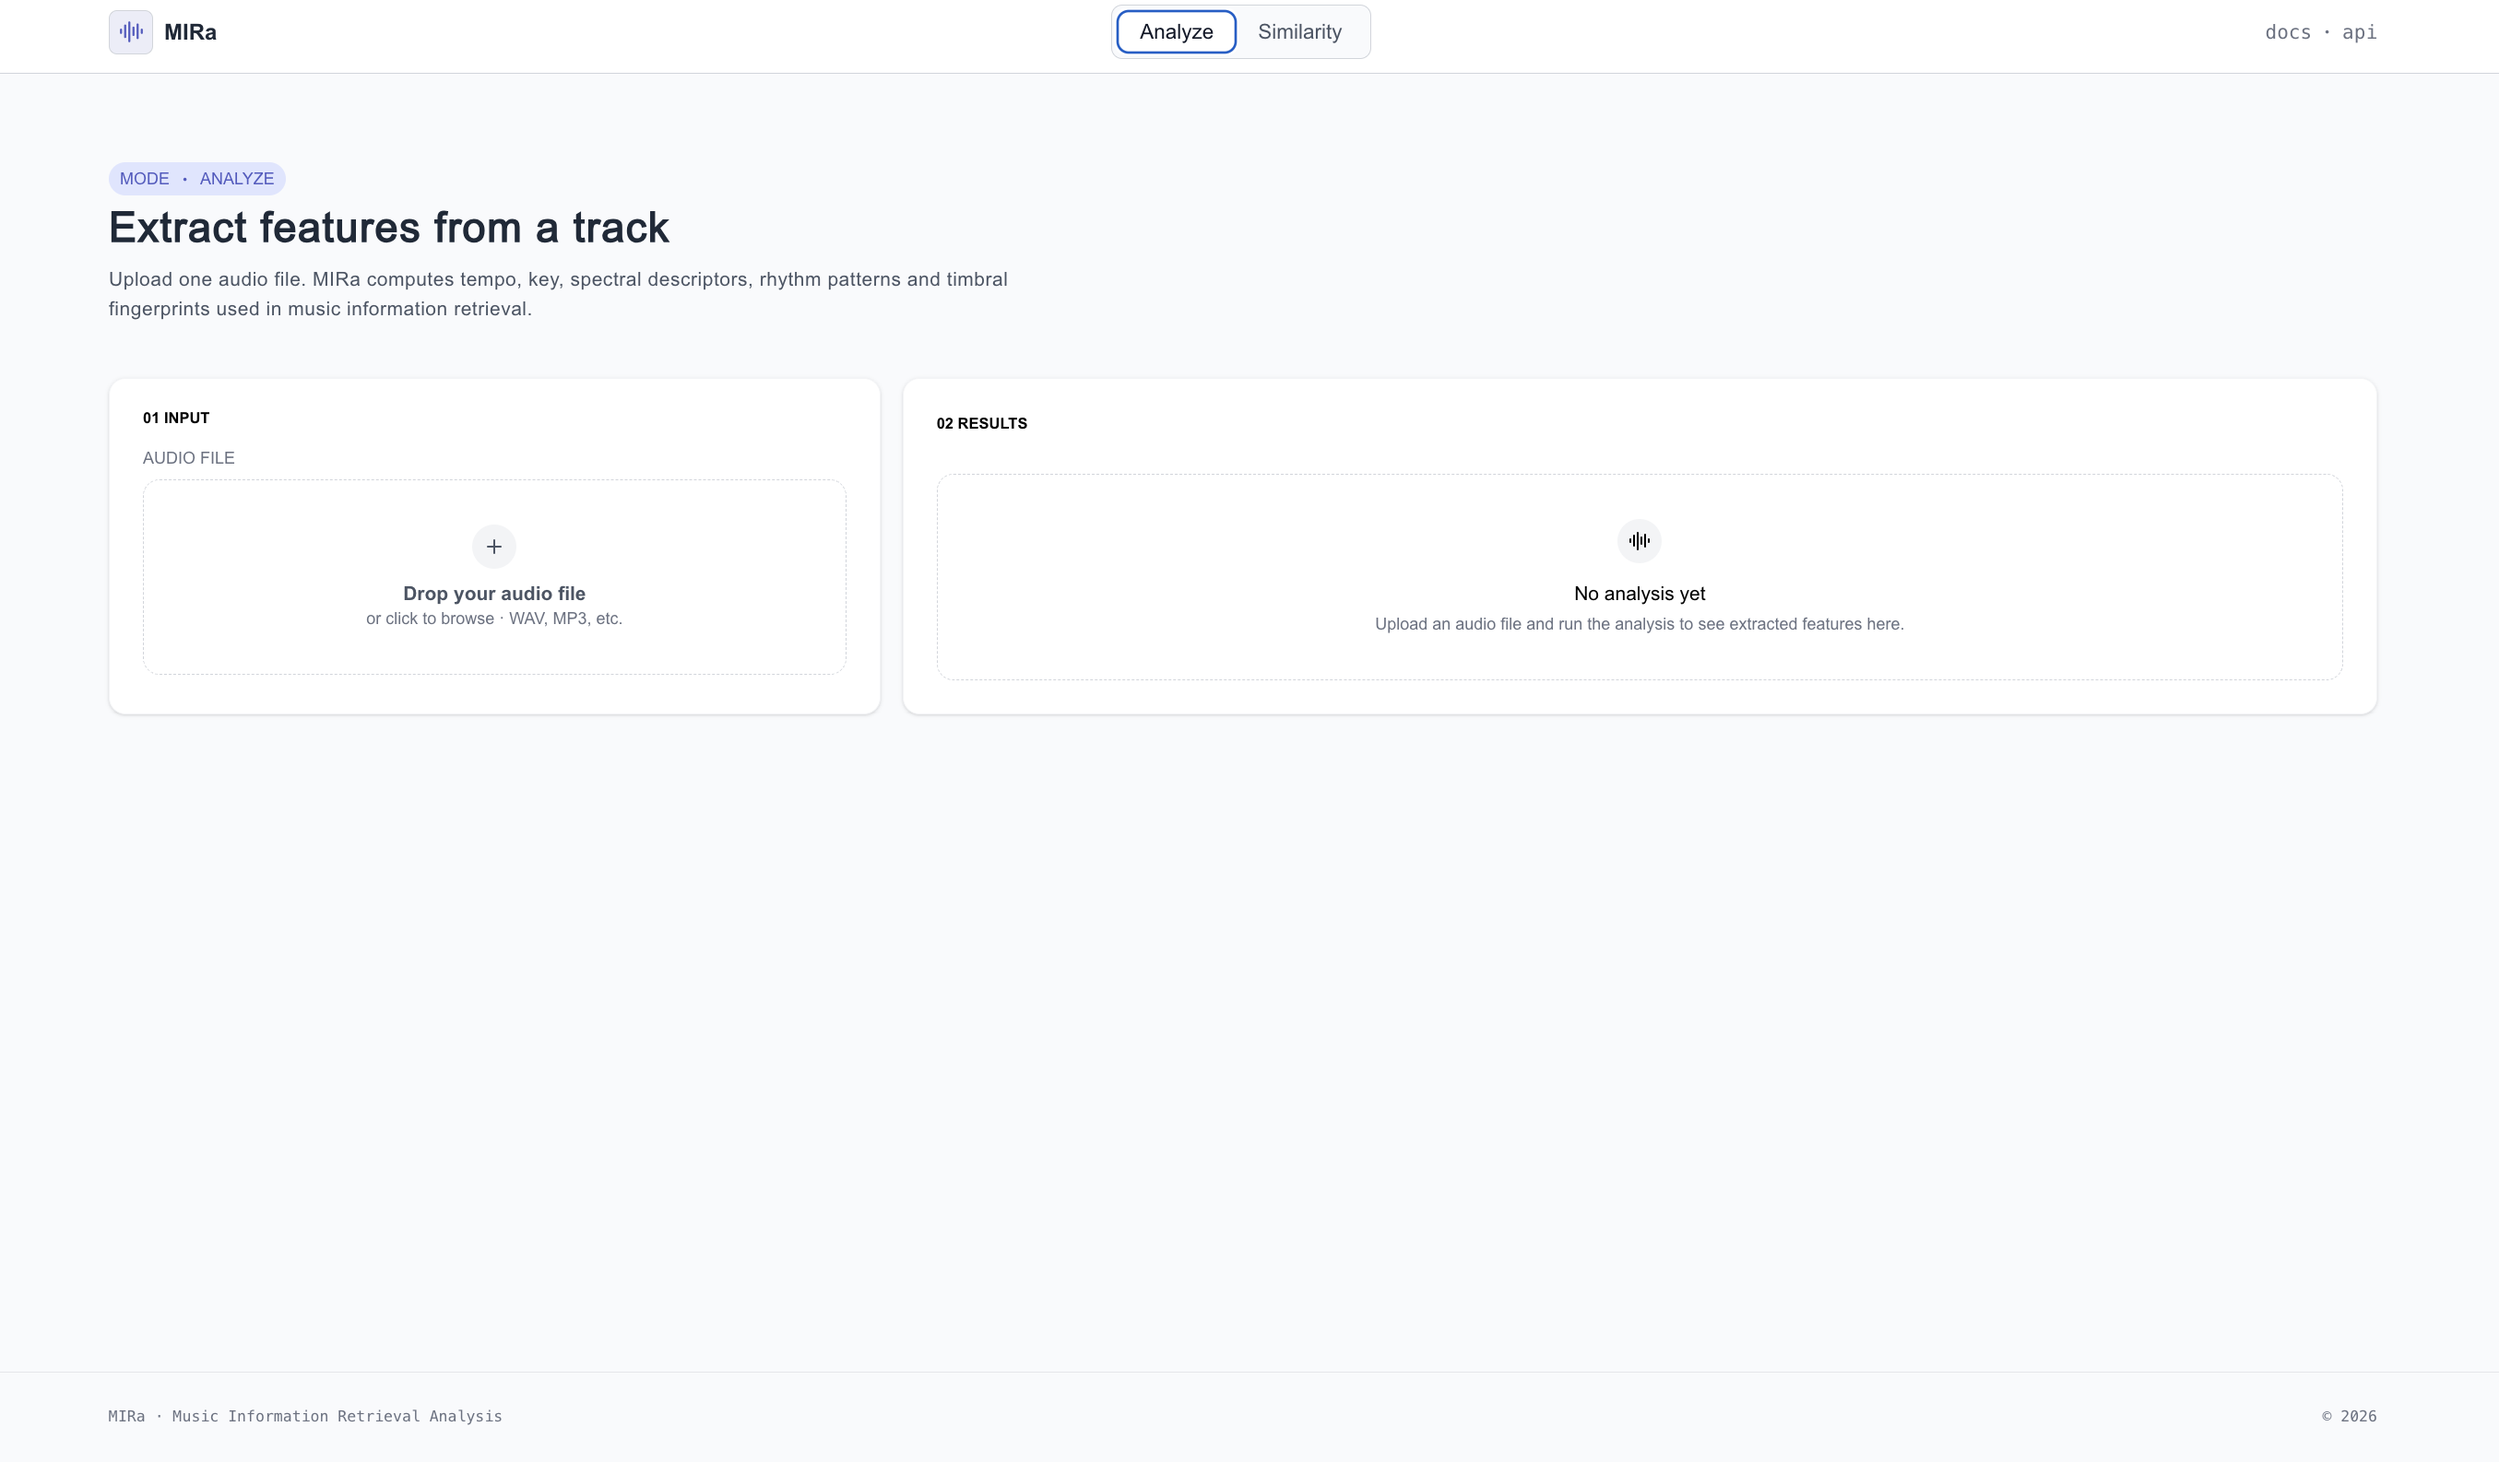
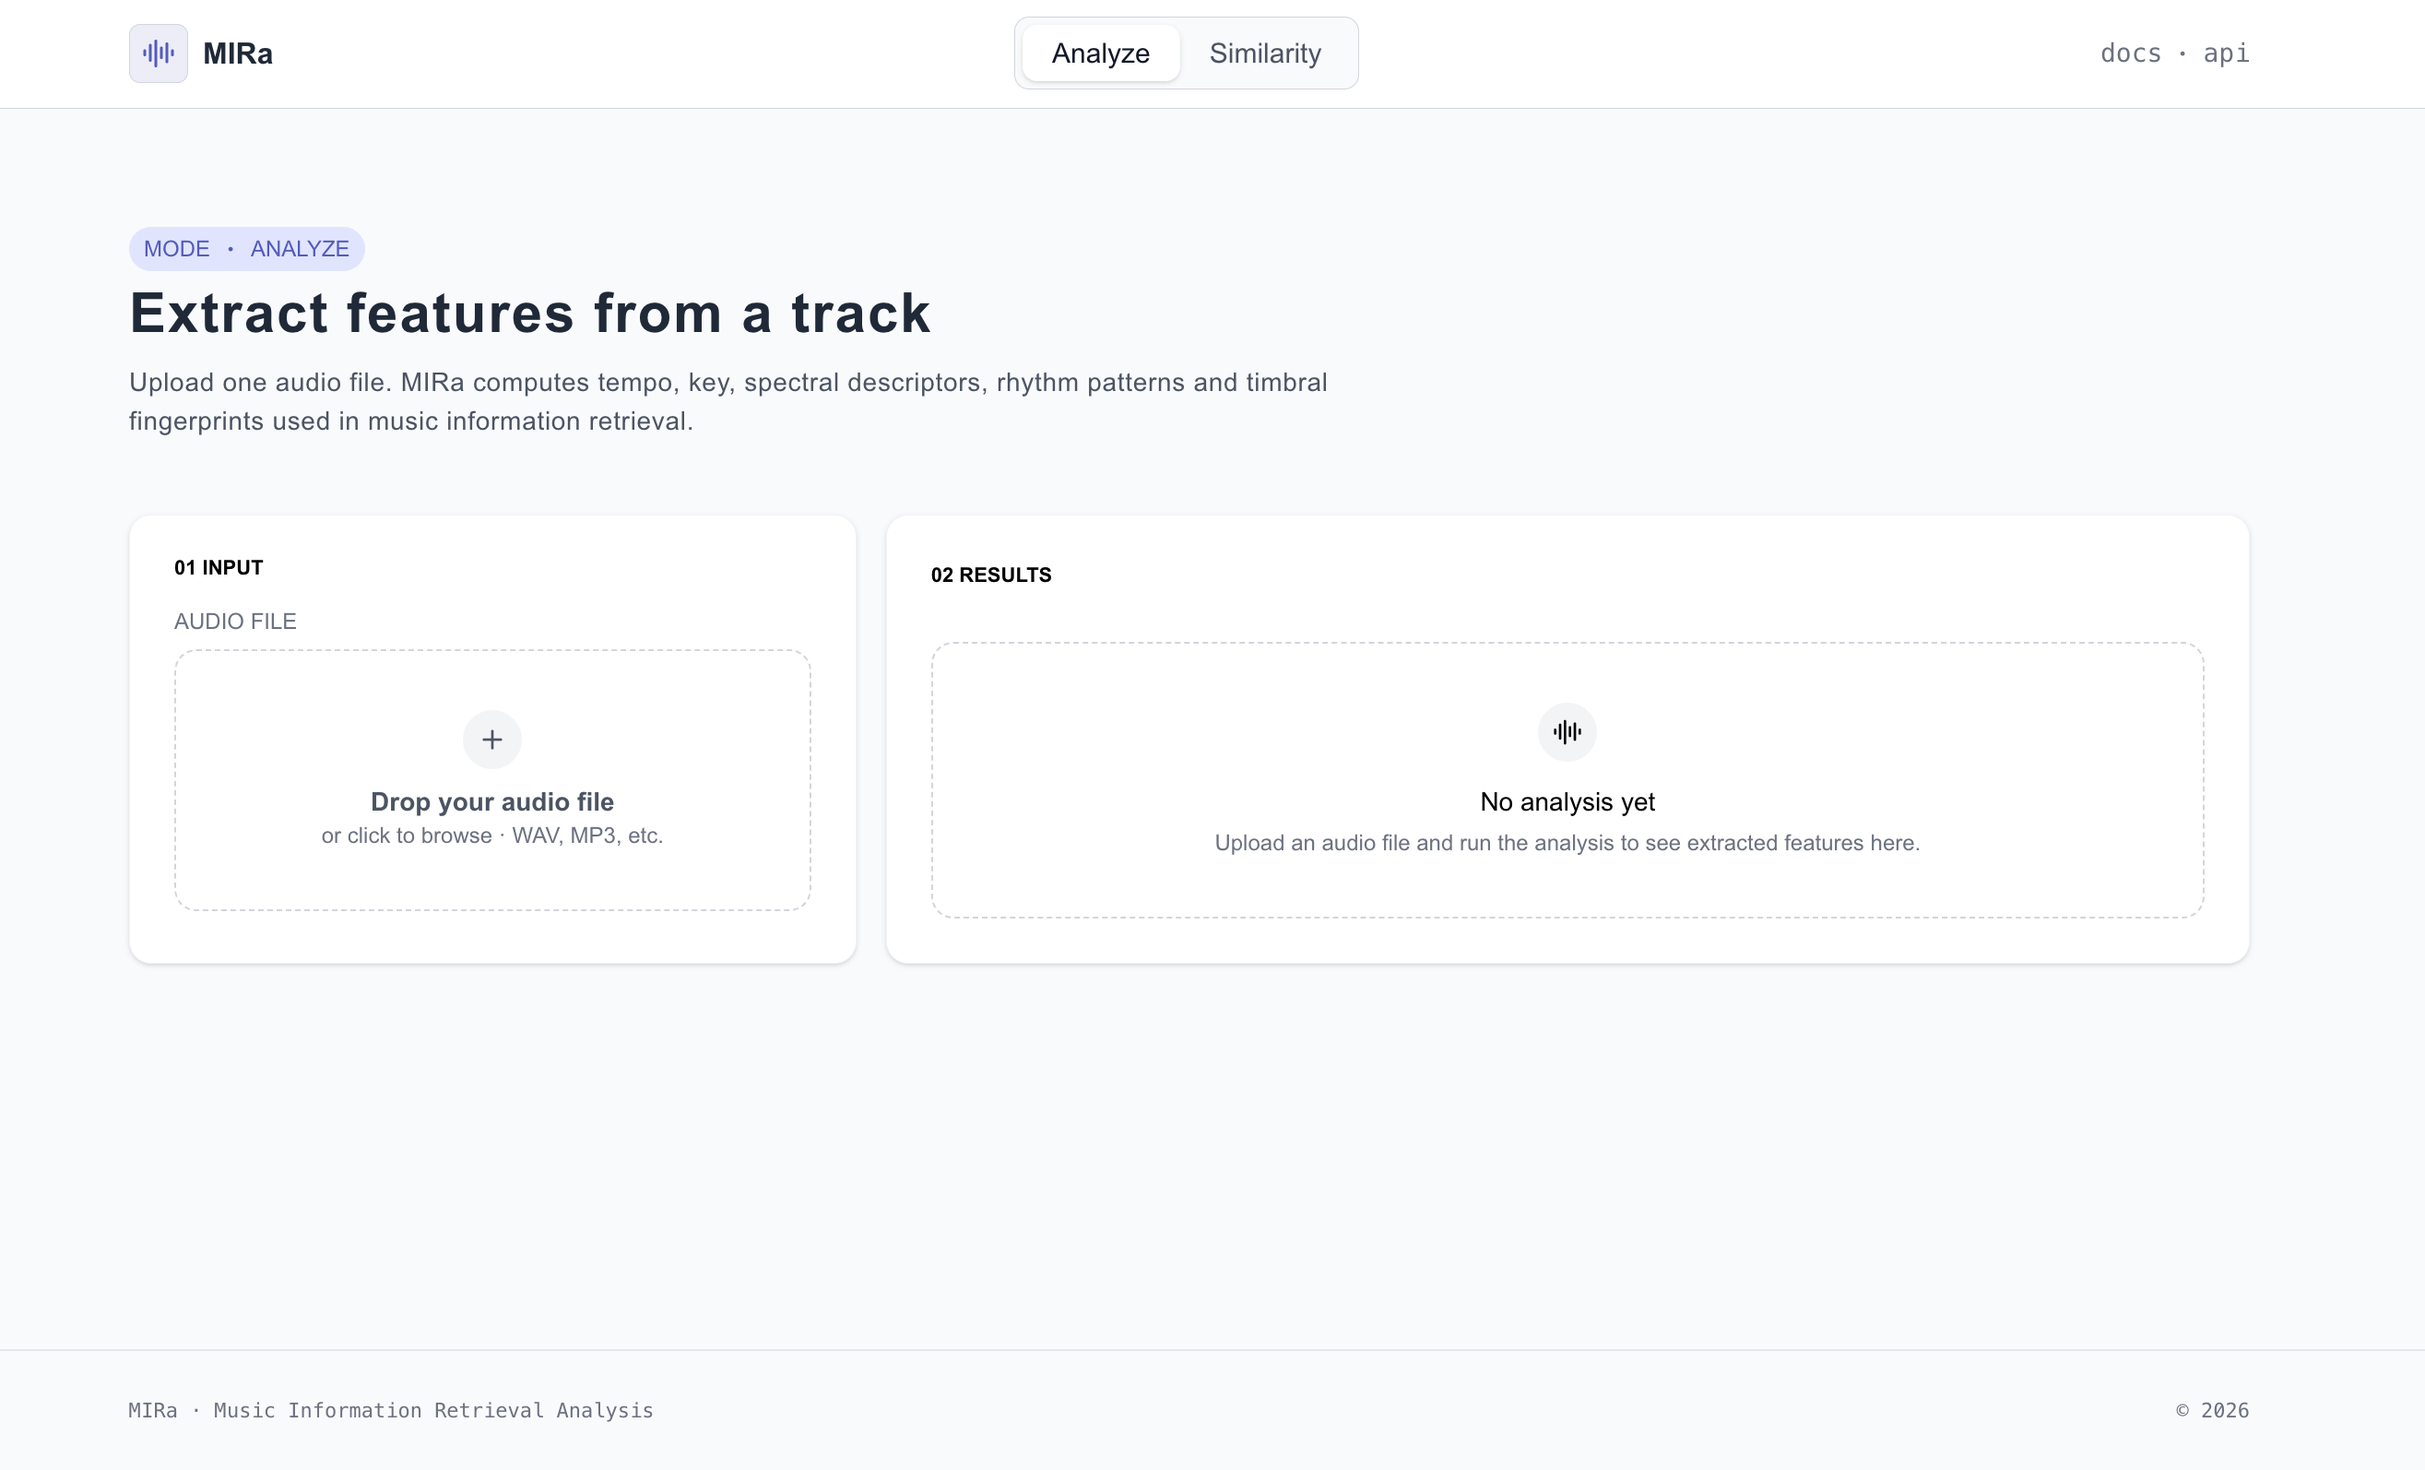
update README

diff --git a/README.md b/README.md
@@ -1,7 +1,8 @@
 # MIRa — Music Information Retrieval Analysis
 
-> A research-oriented prototype exploring how audio features and ML models can be combined into usable music analysis and similarity systems.
+> A research-oriented prototype for extracting, comparing, and spatializing audio — combining classical signal processing with transformer-based classification and binaural synthesis.
 
+<img src="./images/s5.png" width="49%" /> <img src="./images/s6.png" width="49%" />
 <img src="./images/s4.png" width="49%" /> <img src="./images/s1.png" width="49%" />
 <img src="./images/s3.png" width="49%" /> <img src="./images/s2.png" width="49%" />
 
@@ -9,42 +10,58 @@
 
 ---
 
-## TL;DR
-
-- Upload a music file → extract semantic audio features (tempo, key, genre, mood, spectral descriptors)
-- Compare two tracks → compute weighted cosine similarity across MFCC, chroma, spectral, and tempo vectors
-- Combines Librosa signal processing + Transformer-based classification
-- Deployed end-to-end: FastAPI on Hugging Face Spaces + Next.js on Vercel
-
----
-
-## Overview
-
-MIRa is a music analysis prototype built to explore how audio signal processing and machine learning models can be combined into a practical, usable interface. The system has two modes:
+## Modules
  
-**Analyze** — accepts a single audio file and returns a structured set of features covering tonal, rhythmic, timbral, and affective dimensions of the track.
+MIRa has three modes:
  
-**Compare** — accepts two audio files and computes a weighted similarity score across multiple feature dimensions, highlighting where tracks converge and differ at a per-feature level.
+**Analyze** — extract semantic audio features from a single track (tempo, key, genre, mood, instruments).
  
-The project is motivated by core MIR research tasks — automatic annotation, genre classification, mood inference, and music similarity — and serves as a foundation for further work in recommendation and retrieval.
+**Compare** — compute weighted similarity between two tracks across MFCC, chroma, spectral centroid, and tempo feature vectors.
+ 
+**Spatialize** — render a mono audio file binaurally based on a selected direction. Upload a file, pick an azimuth on an interactive compass, and hear the sound positioned around your head through headphones.
 
 ---
 
 ## Features
 
-### Analysis
+### Binaural Synthesis
+ 
+A spatial audio engine built from first principles and extended with measured HRTF data.
+ 
+**What's implemented:**
+ 
+- Audio decoding pipeline — WAV input, mono conversion, resampling to 44.1 kHz
+- Synthetic HRTF engine — Woodworth ITD formula, frequency-dependent ILD head shadow model, pinna spectral shaping via FFT notch filters
+- MIT KEMAR dataset integration 
+- FFT convolution engine using SciPy `fftconvolve`, stereo encoding to 16-bit WAV
+- FastAPI endpoint with dataset selection (synthetic vs KEMAR), validation, and error handling
+- Interactive compass UI — click or drag to position the source, live L/R gain meters, binaural bar visualizer, status-aware player
 
+**Limitations:**
+ 
+- Offline processing only — no real-time streaming
+- Generic HRTF (not individualised), so front/back and elevation cues are subtle for some listeners
+- WAV input only, MP3 not yet supported
+- Mobile UI not yet optimized
+---
+ 
+### Analysis Features
+ 
 | Feature | Method | Output |
 |---|---|---|
 | Tempo | Librosa beat tracking | BPM |
-| Musical Key | Chroma-based key estimation | Key name |
-| Loudness | RMS energy analysis | Normalized value |
+| Musical Key | Chroma-based key estimation | Key + confidence |
+| Loudness | RMS energy analysis | LUFS value |
 | Duration | Audio metadata | Seconds |
+| Perceptual Features | Energy, danceability, valence, acousticness | Normalized 0–1 |
 | Instrument Detection | Hugging Face audio classifier | Label + confidence % |
 | Genre Classification | Transformer-based model | Top genres + confidence % |
 | Mood / Affect | Valence-arousal heuristics | Label, energy, valence |
-
-### Similarity
+ 
+---
+ 
+### Similarity Method
+ 
 | Feature Vector | Representation | Weight |
 |---|---|---|
 | Timbre (MFCC) | Mean + std over 13 coefficients | 50% |
@@ -53,62 +70,20 @@ The project is motivated by core MIR research tasks — automatic annotation, ge
 | Rhythm (Tempo) | Single scalar | 5% |
  
 Overall similarity is a weighted combination of per-feature cosine similarities. Raw vector similarity (unweighted concatenation) is also returned for comparison.
-
----
-
-## Technical Approach
- 
-**Signal Processing Layer** — Low-level features are extracted using Librosa: beat tracking for tempo, chroma STFT for key estimation, RMS for loudness, and spectral descriptors (centroid, rolloff, flatness, ZCR). All features are computed on the raw waveform loaded at 22050 Hz. For similarity, features are aggregated as mean + standard deviation vectors over the first 30 seconds of audio, producing fixed-size representations regardless of track length.
- 
-**Classification Layer** — Higher-level semantic features (genre, instrument, mood) use pretrained Hugging Face Transformer models operating on mel-spectrogram representations.
- 
-**Similarity Method** — Cosine similarity is computed independently per feature group, then combined using explicit weights that reflect their perceptual importance (MFCC → timbre → strongest signal; tempo → weakest). The weighting is a deliberate design choice, not implicit in vector size.
- 
-**Limitations** — Genre classification performs well for broad categories but struggles with subgenre distinction, a known challenge (Tzanetakis & Cook, 2002). The AI detection module is an experimental heuristic and does not represent a production solution. The similarity method is a classical baseline — it does not model temporal structure or use learned semantic embeddings.
- 
----
-
-## System Architecture
- 
-```
-Audio File (MP3/WAV)
-      │
-      ▼
-┌──────────────────────────────────┐
-│         FastAPI Backend           │
-│  ┌────────────────────────────┐  │
-│  │   Signal Processing        │  │  ← Librosa: tempo, key, loudness
-│  │   (analyzer.py)            │  │
-│  ├────────────────────────────┤  │
-│  │   ML Classification        │  │  ← HF Transformers: genre, mood , instrument
-│  │   (services/)              │  │
-│  ├────────────────────────────┤  │
-│  │   Similarity Engine        │  │  ← Cosine similarity, weighted scoring
-│  │   (services/similarity.py) │  │
-│  └────────────────────────────┘  │
-│   REST API: /analyze /compare-audio│
-└──────────────────────────────────┘
-      │
-      ▼
-┌──────────────────────────────────┐
-│       Next.js Frontend            │
-│   Analyze mode + Compare mode     │
-└──────────────────────────────────┘
-```
  
 ---
 
 ## Stack
-
+ 
 | Layer | Technology |
 |---|---|
 | Backend | Python 3.10, FastAPI, Uvicorn |
-| Signal Processing | Librosa, NumPy, SoundFile |
-| ML Models | Hugging Face Transformers, Torch |
-| Audio I/O | FFmpeg, libsndfile |
+| Signal Processing | Librosa, NumPy, SciPy |
+| ML Models | Hugging Face Transformers, PyTorch |
+| Binaural | SciPy fftconvolve, MIT KEMAR HRTFs |
 | Frontend | Next.js 14, React, Tailwind CSS |
 | Deployment | Hugging Face Spaces (Docker) + Vercel |
-
+ 
 ---
 
 ## Running Locally
@@ -121,6 +96,13 @@ pip install -r requirements.txt
 # FFmpeg required: brew install ffmpeg (macOS) or apt install ffmpeg (Linux)
 uvicorn main:app --reload
 # API docs at http://localhost:8000/docs
+```
+
+**KEMAR HRTFs**
+ 
+Download the MIT KEMAR dataset and place in `backend/hrtf/kemar/`:
+```
+https://github.com/imclab/libAudio3D/tree/master/data/MIT-KEMAR-HRTFs
 ```
 
 **Frontend**
